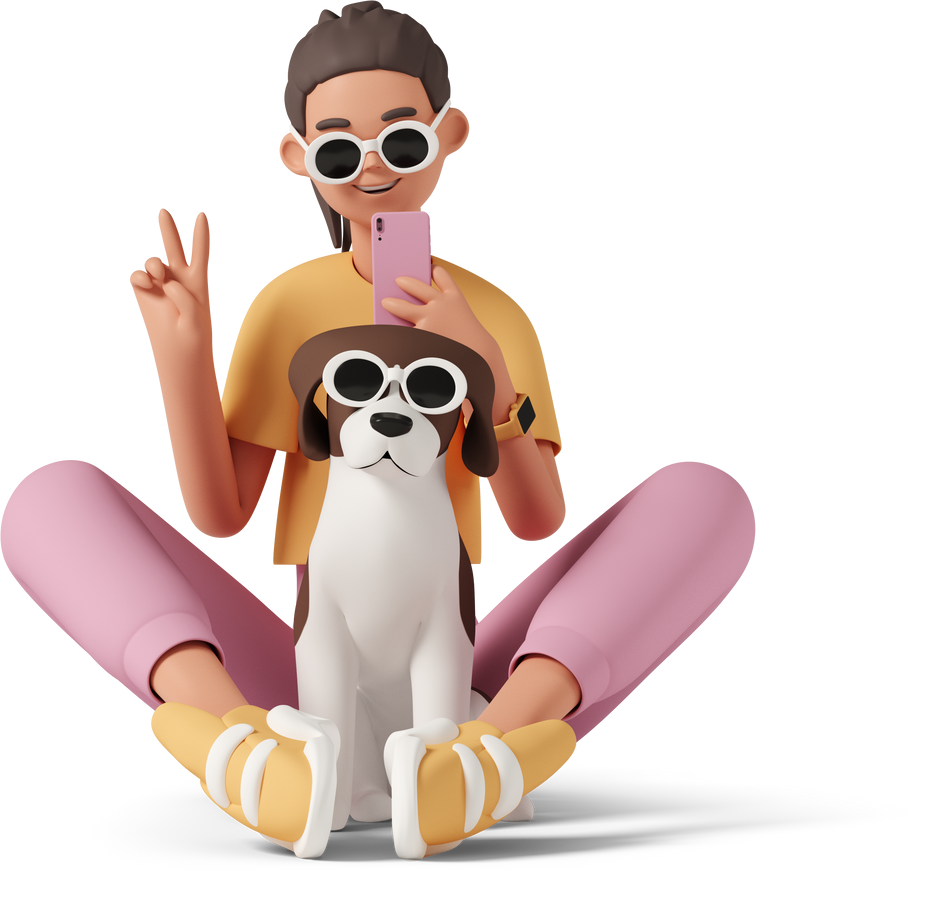
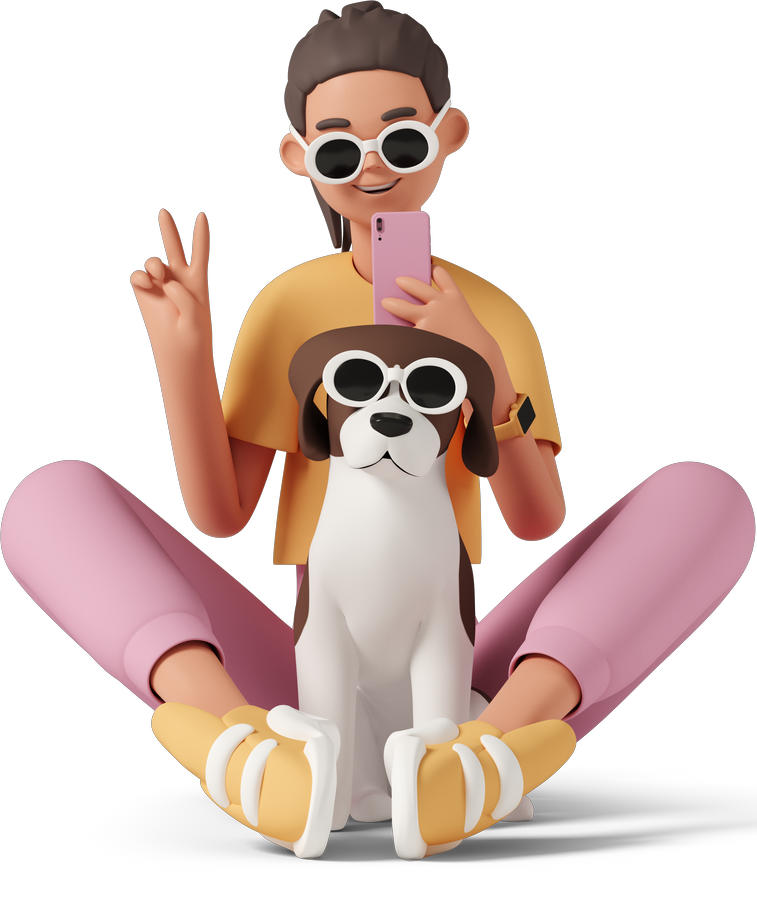
Organizing the css of the about section

diff --git a/src/components/About.jsx b/src/components/About.jsx
@@ -1,10 +1,12 @@
-import illustration from '../assets/illustrations/pale-woman-works-with-computer-small.png';
+import womanComputer from '../assets/illustrations/pale-woman-works-with-computer-small.png';
+import womanSelfie from '../assets/illustrations/casual-life-3d-woman-taking-a-funny-photo-with-dog-1.png'
 import '../styles/components/about.css';
 
 export default function About() {
   return (
     <section className='about'>
       <div className="about-container">
+        <img src={womanComputer} alt="Pale woman works with computer" className='about-illustration' />
         <h1>About me</h1>
         <p className='about-paragraph'>
           I am a person that is passionate about technologies, colors, games, and everything related to words.
@@ -14,7 +16,9 @@ export default function About() {
           The love for words, games, and colors merged into the frontend development, something that I am loving to learn more and more.
           Currently I work with the triad HTML/CSS/JS and React. :)
         </p>
-        <img src={illustration} alt="Pale woman works with computer" className='about-illustration' />
+        <span className='image-container'>
+          <img src={womanSelfie} alt="Pale woman works with computer" className='about-illustration-second' />
+        </span>
       </div>
     </section>
   );

diff --git a/src/styles/components/about.css b/src/styles/components/about.css
@@ -8,8 +8,23 @@
 .about-container {
   margin: 0 2rem;
   padding-top: 5rem;
+  display: flex;
+  flex-direction: column;
+  justify-content: center;
 }
 
 .about-paragraph {
   margin-bottom: 2rem;
+}
+
+.image-container {
+  display: flex;
+  align-items: center;
+  justify-content: center;
+  margin: 2rem;
+}
+
+.about-illustration-second {
+  height: 200px;
+  width: 180px;
 }
